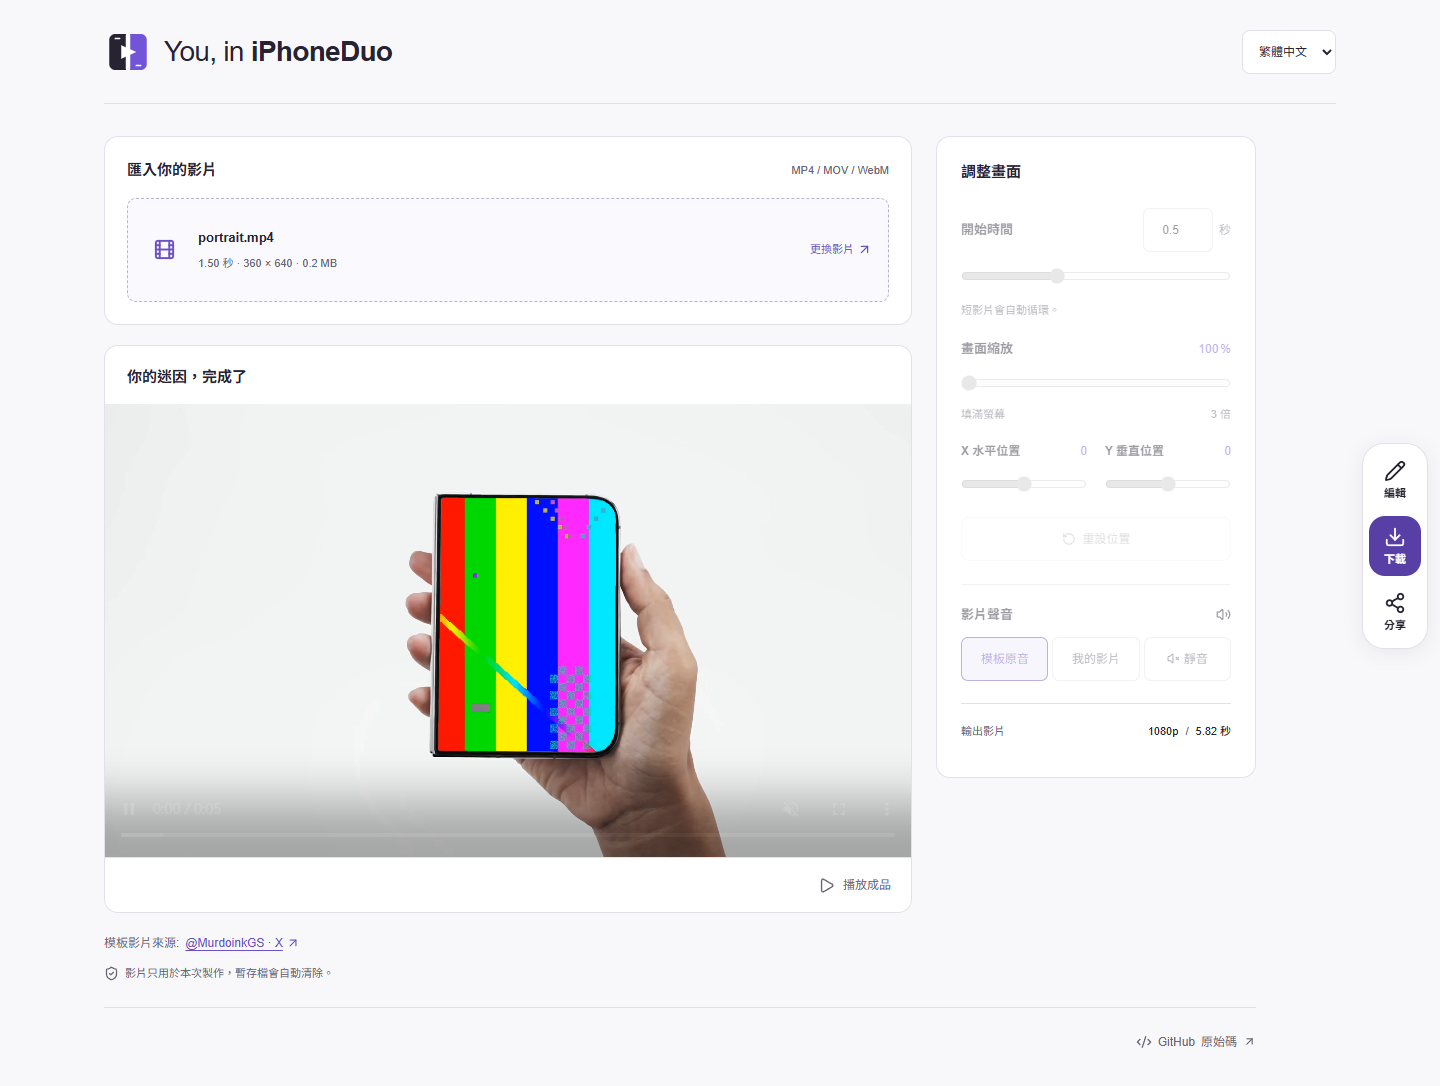
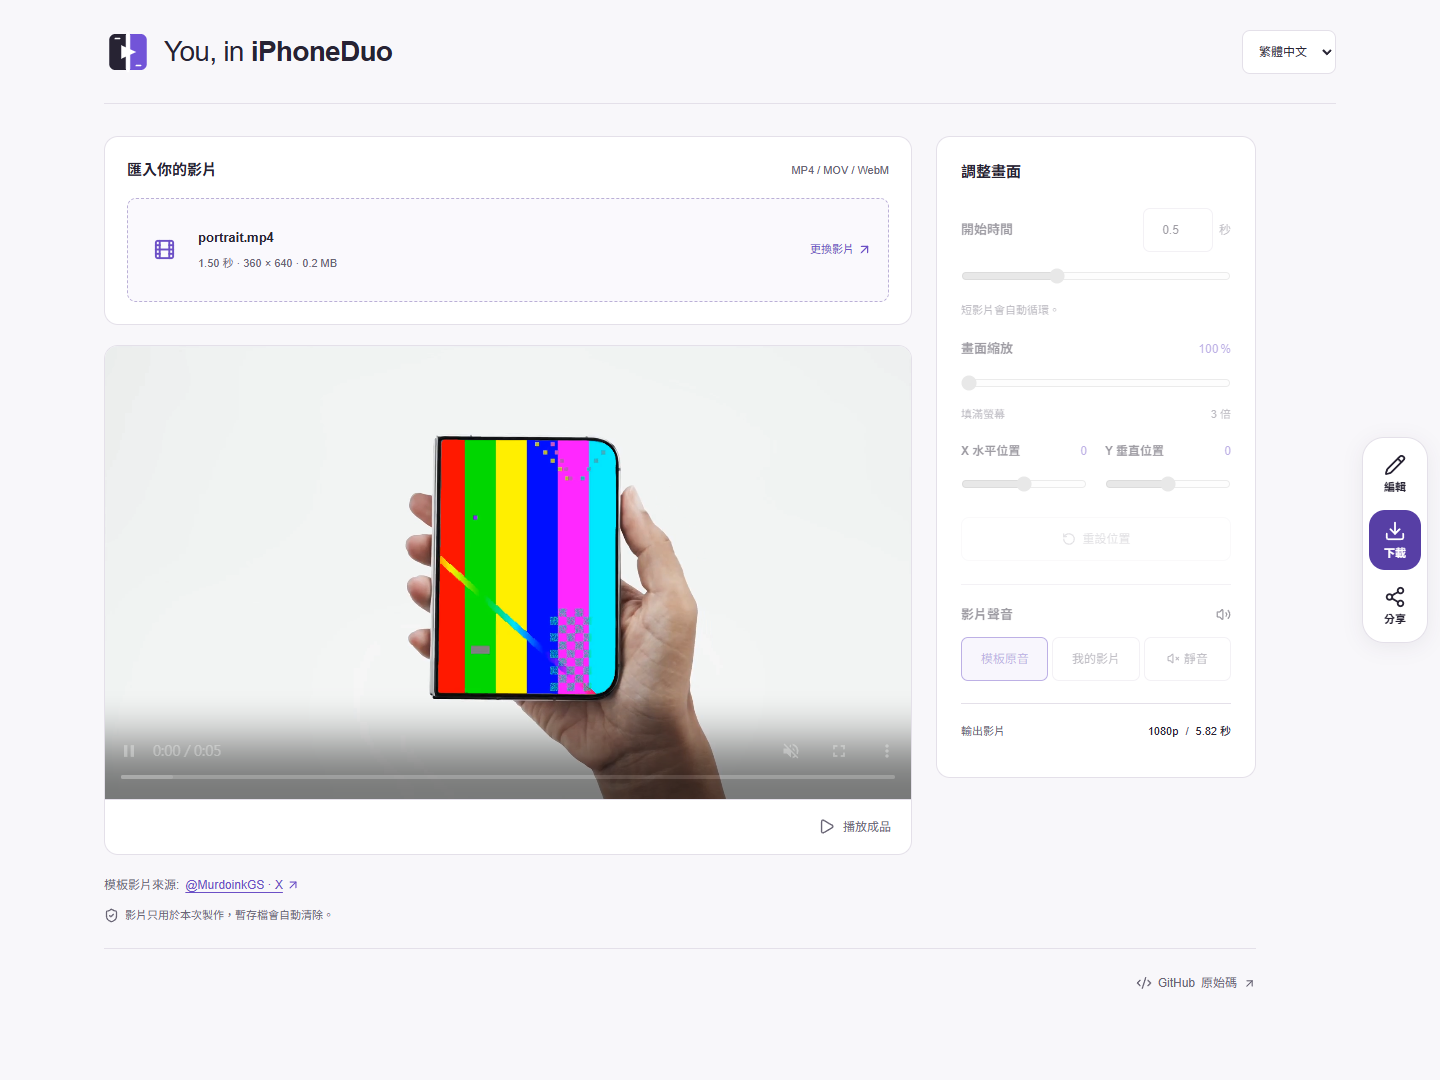
Refine floating preview visibility and verify editing flows

diff --git a/src/components/floating-preview.tsx b/src/components/floating-preview.tsx
@@ -27,11 +27,12 @@ export default function FloatingPreview({ children, enabled }: { children: React
     // Observe a placeholder with stable dimensions, never the element that becomes fixed.
     const observer = new IntersectionObserver(
       ([entry]) => {
-        const visible = entry.isIntersecting && entry.intersectionRatio >= 0.15;
+        // The bottom of the frame can remain visible while the phone itself is already offscreen.
+        const visible = entry.isIntersecting && entry.intersectionRatio >= 0.6;
         setOutside(!visible);
         if (visible) setDismissed(false);
       },
-      { threshold: [0, 0.15], rootMargin: '-12px 0px -12px 0px' },
+      { threshold: [0, 0.6], rootMargin: '-12px 0px -12px 0px' },
     );
     observer.observe(anchor.current);
     return () => observer.disconnect();

diff --git a/docs/verification.md b/docs/verification.md
@@ -10,16 +10,18 @@
 | `npm run typecheck` | 通過                                                                                      |
 | `npm test`          | 5 個測試檔、56 項通過、0 失敗                                                             |
 | `npm run build`     | Rspack standalone 建置通過；有套件的 experimental 提醒                                    |
-| `npm run test:e2e`  | 19 項通過、0 失敗、0 跳過                                                                 |
+| `npm run test:e2e`  | 22 項通過、0 失敗、0 跳過                                                                 |
 | 影片 ffprobe        | 1920 × 1080、H.264 High、yuv420p、29.97 fps、AAC、5.84 秒                                 |
 | faststart           | moov atom 位於 mdat 之前                                                                  |
 | 完整影片解碼        | FFmpeg 解碼整段至 null output，結束碼 0                                                   |
 | 原始模板保留        | 根目錄及 public 內的 8150.mp4 SHA-256 相同                                                |
 | 私人檔案隔離        | standalone 只含程式依賴、.next、public、package.json、server.js；沒有使用者暫存與測試素材 |
 
-本次 Vitest 約 23.2 秒，最終完整 E2E 約 1.8 分鐘。單次小型素材合成通常約 5–15 秒，取決於當時 CPU 工作量；這不是硬體效能保證。
+本次 Vitest 約 23.2 秒，加入浮動預覽後的最終完整 E2E 約 2 分鐘。單次小型素材合成通常約 5–15 秒，取決於當時 CPU 工作量；這不是硬體效能保證。
 
 ## 品牌、右側浮動列、分享與 Rspack
+
+後續加入可拖曳浮動預覽，並移除成品的完成標題及留白。專項 E2E 在 Chromium 桌機、手機與 WebKit 全部通過：捲動自動浮出／收回、相同 Canvas／video 元素持續使用、實際像素隨縮放更新、移動視窗不更改裁切值、原生單指事件、方向鍵、關閉後不立刻重現、返回按鈕的焦點及視窗縮放邊界。專項 i18n 測試 6 項通過；lint、typecheck、Rspack build 通過。新增浮動元件的設計 detector 無發現。最終完整 22 項 E2E 全數通過；[浮動預覽截圖](images/floating.png)。
 
 - 全站標題統一為 You, in iPhoneDuo；SVG 主圖示、單色版、字標、favicon、主畫面圖示及 Logo 總覽已產生並檢視。
 - 已讀取 [Apple Designing for iPhone Duo](https://developer.apple.com/design/human-interface-guidelines/designing-for-iphone-duo) 全文。右側操作列依「編輯／取消 → 主要動作 → 分享」排列，預留內容安全空間，使用圖示與完整無障礙名稱。

diff --git a/README.md b/README.md
@@ -36,6 +36,8 @@ npm start
 - 主要動作固定浮在右側；完成後依序為「編輯 → 下載 → 分享」，處理中提供取消。按鈕使用圖示、短文字與完整無障礙名稱。
 - 內容預留右側空間，操作列不覆蓋預覽／滑桿；使用 `safe-area-inset-*` 與 `viewport-fit=cover`。較寬時預覽和設定並排，較窄時上下排列，縮放視窗不重建編輯器或清除狀態。
 - 縮放、X／Y 和音訊等局部控制留在編輯內容區。分享以原生 HTML dialog 開啟，支援 Escape、關閉、鍵盤焦點限制與返回原按鈕。
+- 編輯中的預覽大部分捲出畫面時，自動浮成可拖曳的小視窗；縮放、X／Y 與開始時間仍即時更新。拖曳小視窗不會改變裁切值，支援滑鼠、單指與方向鍵移動，位置限制於可視範圍並避開右側操作列。回到原預覽區會自動收回，也能按返回／關閉；關閉後，需先回到原預覽區才會再次自動顯示。
+- `src/components/floating-preview.tsx` 重用同一個 Canvas 與兩個影片元素，保留播放時間，不新增解碼器；這是網頁內的浮動預覽，不是作業系統跨分頁的 Picture-in-Picture。成品直接顯示影片，不再額外顯示完成標題。
 - 網站不是 SwiftUI／UIKit 原生 App，無法自動取得指南的原生 reserved-region／arrangement-view API；目前依瀏覽器提供的可視尺寸與安全邊界調整。未經實體 iPhone Duo 驗證，也不宣稱 Apple 認證。
 
 `public/brand/` 提供雙螢幕播放圖示、單色版、字標、favicon 與主畫面圖示；`npm run brand:prepare` 可重新產生 PNG 與設計總覽。介面保留必要操作、素材來源及暫存提醒，沒有額外品牌副標。
